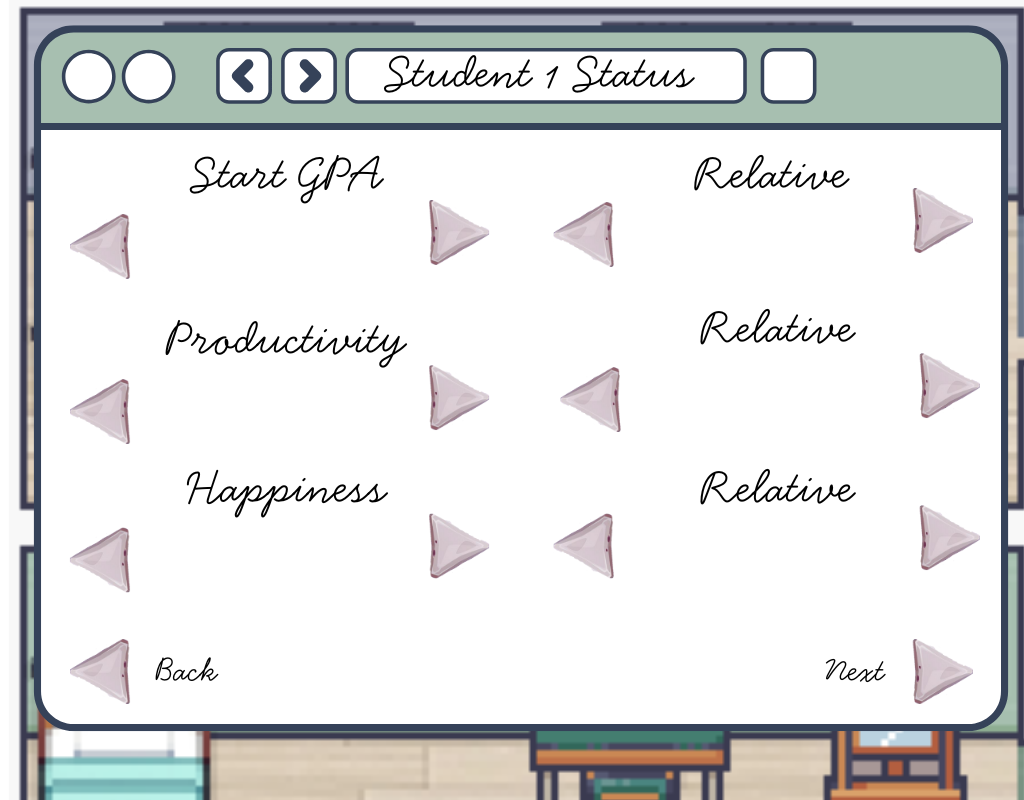
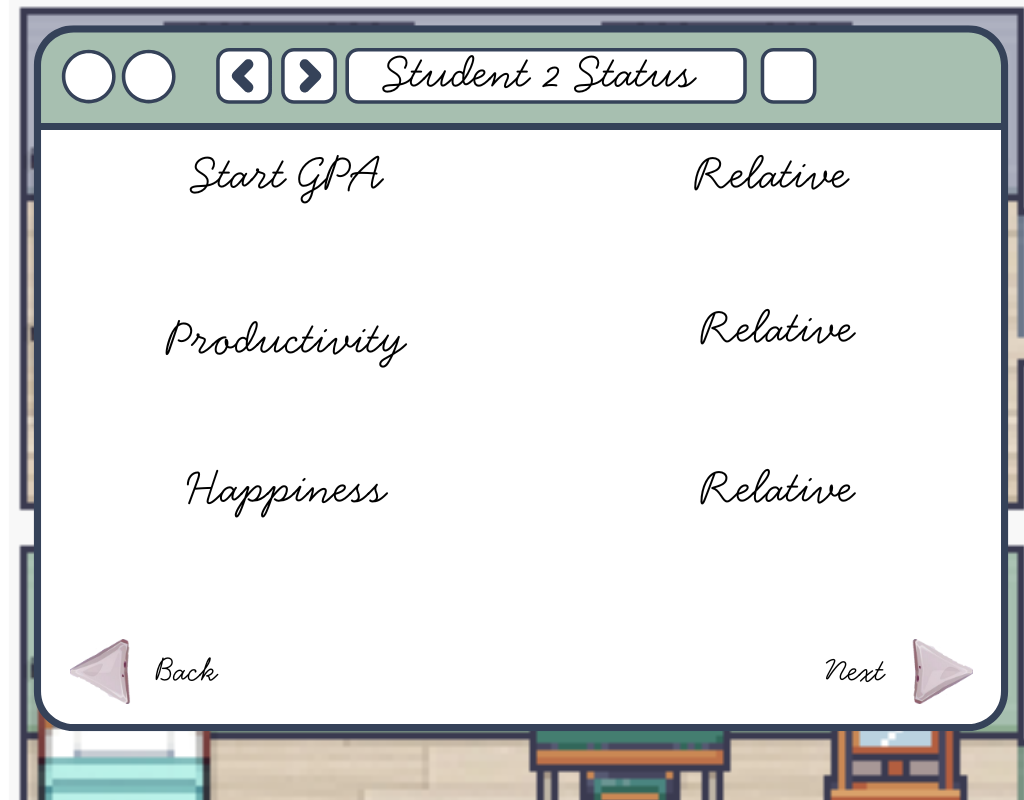
Finishedsettingsstuff

diff --git a/SettingsWorldS2Stats.java b/SettingsWorldS2Stats.java
@@ -1,16 +1,16 @@
 import greenfoot.*;  // (World, Actor, GreenfootImage, Greenfoot and MouseInfo)
 
 /**
- * Write a description of class SettingsWorldS1Stats here.
+ * Write a description of class SettingsWorldS2Stats here.
  * 
  * @author (your name) 
  * @version (a version number or a date)
  */
-public class SettingsWorldS1Stats extends World
+public class SettingsWorldS2Stats extends World
 {
 
     /**
-     * Constructor for objects of class SettingsWorldS1Stats.
+     * Constructor for objects of class SettingsWorldS2Stats.
      * 
      */
 
@@ -45,12 +45,12 @@ public class SettingsWorldS1Stats extends World
     private SettingsImages happiness;
      */
 
-    private SettingsWorldS1Stats.StatChooseNumber happiness, productivity, gpa; 
+    private SettingsWorldS2Stats.StatChooseNumber happiness, productivity, gpa; 
     private int happinessNumber, productivityNumber, gpaNumber;
 
-    private SettingsWorldS1Stats.StatChooseImage relative1, relative2, relative3; 
+    private SettingsWorldS2Stats.StatChooseImage relative1, relative2, relative3; 
     private int relative1Number, relative2Number, relative3Number; 
-    public SettingsWorldS1Stats()
+    public SettingsWorldS2Stats()
     {    
         // Create a new world with 600x400 cells with a cell size of 1x1 pixels.
         super(1024, 800, 1); 
@@ -62,39 +62,8 @@ public class SettingsWorldS1Stats extends World
         back = new Button (cursor, true); 
         addObject(back, 100, 670); 
 
-        background = new GreenfootImage ("SettingsPg2.png"); 
+        background = new GreenfootImage ("SettingsPg3.png"); 
         setBackground(background); 
-
-        /*
-        gpa = new SettingsImages(); 
-        gpaNumber = 5; 
-        gpa.numberDisplay(gpaNumber); 
-        addObject(gpa, 280, 250); 
-        gpaLeft = new Button(cursor, true); 
-        gpaRight = new Button(cursor, false);
-        addObject(gpaLeft, 100, 250); 
-        addObject(gpaRight, 450, 250); 
-
-        /*
-        productivity = new SettingsImages(); 
-        productivityNumber = 5; 
-        productivity.numberDisplay(productivityNumber); 
-        addObject(productivity, 280, 395); 
-        productivityLeft = new Button(cursor, true); 
-        productivityRight = new Button(cursor, false);
-        addObject(productivityLeft, 100, 395); 
-        addObject(productivityRight, 450, 395);
-
-        /*
-        happiness = new SettingsImages(); 
-        happinessNumber = 5; 
-        happiness.numberDisplay(happinessNumber); 
-        addObject(happiness, 280, 395); 
-        happinessLeft = new Button(cursor, true); 
-        happinessRight = new Button(cursor, false);
-        addObject(happinessLeft, 100, 395); 
-        addObject(happinessRight, 450, 395);
-         */
 
         maximumValueReachedGraphic = new SettingsImages();
         maximumValueReachedGraphic.maxMinDisplayText("Maximum Value Reached");
@@ -102,30 +71,28 @@ public class SettingsWorldS1Stats extends World
         minimumValueReachedGraphic = new SettingsImages();
         minimumValueReachedGraphic.maxMinDisplayText("Minimum Value Reached"); 
         happinessNumber = 80;
-        happiness = new SettingsWorldS1Stats.StatChooseNumber(280, 100, 450, 540, 280, 580, happinessNumber); 
+        happiness = new SettingsWorldS2Stats.StatChooseNumber(280, 100, 450, 540, 280, 580, happinessNumber); 
 
         productivityNumber = 90;
-        productivity = new SettingsWorldS1Stats.StatChooseNumber(280, 100, 450, 395, 280, 430, productivityNumber);
+        productivity = new SettingsWorldS2Stats.StatChooseNumber(280, 100, 450, 395, 280, 430, productivityNumber);
 
         gpaNumber = 90;
-        gpa = new SettingsWorldS1Stats.StatChooseNumber(280, 100, 450, 250, 280, 280, productivityNumber);
+        gpa = new SettingsWorldS2Stats.StatChooseNumber(280, 100, 450, 250, 280, 280, productivityNumber);
 
         relative1Number = 0 ; 
-        relative1 = new SettingsWorldS1Stats.StatChooseImage(775, 580, 950, 250, relative1Number); 
+        relative1 = new SettingsWorldS2Stats.StatChooseImage(775, 580, 950, 250, relative1Number); 
 
         relative2Number = 0;
-        relative2 = new SettingsWorldS1Stats.StatChooseImage(775, 580, 950, 395, relative2Number); 
+        relative2 = new SettingsWorldS2Stats.StatChooseImage(775, 580, 950, 395, relative2Number); 
 
         relative3Number = 0;
-        relative3 = new SettingsWorldS1Stats.StatChooseImage(775, 580, 950, 540, relative2Number); 
+        relative3 = new SettingsWorldS2Stats.StatChooseImage(775, 580, 950, 540, relative2Number); 
 
     }
 
     public void act()
     {
         backWorld(); 
-        nextWorld(); 
-        //productivityChoose(); 
         gpa.choose();
         productivity.choose(); 
         happiness.choose(); 
@@ -134,82 +101,11 @@ public class SettingsWorldS1Stats extends World
         relative3.choose(); 
     }
 
-    /*
-    public void happinessChoose()
-    {
-
-    }
-
-    /*
-    public void productivityChoose()
-    {
-    if (Greenfoot.mouseClicked(happinessRight))
-    {
-    if(happinessNumber == 100)
-    {
-    addObject(maximumValueReachedGraphic, 280, 580); 
-    }
-    else
-    {
-    happinessNumber+=5;
-    happiness.numberDisplay(happinessNumber); 
-    }
-
-    }
-    else if (Greenfoot.mouseClicked(happinessLeft))
-    {
-
-    if(happinessNumber ==0)
-    {
-    addObject(minimumValueReachedGraphic, 280, 580); 
-    }
-    else
-    {
-    happinessNumber-=5; 
-    happiness.numberDisplay(happinessNumber); 
-    }
-    }
-
-    }
-     */
-
-    /*
-    public void gpaChoose()
-    {
-    if (Greenfoot.mouseClicked(gpaRight))
-    {
-    if(gpaNumber == 100)
-    {
-    addObject(maximumValueReachedGraphic, 280, 280); 
-    }
-    else
-    {
-    gpaNumber+=5;
-    gpa.numberDisplay(gpaNumber); 
-    }
-
-    }
-    else if (Greenfoot.mouseClicked(gpaLeft))
-    {
-
-    if(gpaNumber ==0)
-    {
-    addObject(minimumValueReachedGraphic, 280, 280); 
-    }
-    else
-    {
-    gpaNumber-=5; 
-    gpa.numberDisplay(gpaNumber); 
-    }
-    }
-    }
-     */ 
-
     public void backWorld()
     {
         if (Greenfoot.mouseClicked(back))
         {
-            Greenfoot.setWorld(new SettingsWorldGeneral()); 
+            Greenfoot.setWorld(new SettingsWorldS1Stats()); 
         }
     }
 

diff --git a/SettingsWorldGeneral.java b/SettingsWorldGeneral.java
@@ -44,28 +44,28 @@ public class SettingsWorldGeneral extends World
         addObject(cursor, 0, 0);
         //button
         student1 = new SettingsImages(); 
-        student1.setImageFile("Cat.png"); 
-        addObject(student1, 505, 250); 
+        student1.setImageFile("bob_run18.png"); 
+        addObject(student1, 250, 290); 
         student1Left = new Button(cursor, true); 
         student1Right = new Button(cursor, false);
-        addObject(student1Left, 310, 250); 
-        addObject(student1Right, 700, 250); 
+        addObject(student1Left, 100, 290); 
+        addObject(student1Right, 400, 290); 
 
         student2 = new SettingsImages();
-        student2.setImageFile("mirror.png"); 
-        addObject(student2, 505, 450); 
+        student2.setImageFile("bob_run18.png"); 
+        addObject(student2, 250, 550); 
         student2Left = new Button(cursor, true); 
         student2Right = new Button(cursor, false);
-        addObject(student2Left, 310, 450); 
-        addObject(student2Right, 700, 450); 
+        addObject(student2Left, 100, 550); 
+        addObject(student2Right, 400, 550); 
 
         university = new SettingsImages();
-        university.setImageFile("germ1.png"); 
-        addObject(university, 505, 650); 
+        university.setImageFile("universityofcatmeme.png"); 
+        addObject(university, 725, 410); 
         universityLeft = new Button(cursor, true); 
         universityRight = new Button(cursor, false);
-        addObject(universityLeft, 310, 650); 
-        addObject(universityRight, 700, 650); 
+        addObject(universityLeft, 500, 550); 
+        addObject(universityRight, 942, 550); 
         
         next = new Button (cursor, false);
         addObject(next, 945, 670);
@@ -83,8 +83,6 @@ public class SettingsWorldGeneral extends World
         universityChoose(); 
         backWorld();
         nextWorld();
-        showText(String.valueOf(-9%3), 329, 100); 
-        showText(String.valueOf(student2ImageNumber), 200, 100); 
 
     }
     
@@ -115,7 +113,7 @@ public class SettingsWorldGeneral extends World
         }
         if(student1ImageNumber%3==0)
         {
-            student1.setImageFile("Cat.png"); 
+            student1.setImageFile("bob_run18.png"); 
         }
         else if (student1ImageNumber%3==1 || student1ImageNumber%3==-1)
         {
@@ -140,7 +138,7 @@ public class SettingsWorldGeneral extends World
         }
         if(student2ImageNumber%3==0)
         {
-            student2.setImageFile("Cat.png"); 
+            student2.setImageFile("bob_run18.png"); 
         }
         else if (student2ImageNumber%3==1 || student2ImageNumber%3==-1)
         {
@@ -165,19 +163,19 @@ public class SettingsWorldGeneral extends World
         }
         if(universityImageNumber%4==0)
         {
-            university.setImageFile("Cat.png"); 
+            university.setImageFile("universityofcatmeme.png"); 
         }
         else if (universityImageNumber%4==1 || universityImageNumber%4==-1)
         {
-            university.setImageFile("mirror.png"); 
+            university.setImageFile("universityofbigmac.png"); 
         }
         else if (universityImageNumber%4 == 2 || universityImageNumber%4==-2)
         {
-            university.setImageFile("germ1.png"); 
+            university.setImageFile("universityofducksong.png"); 
         }
         else if (universityImageNumber%4 == 3 || universityImageNumber%4==-3)
         {
-            university.setImageFile("germ1.png"); 
+            university.setImageFile("universityoflebron.png"); 
         }
 
     }

diff --git a/SettingsImages.java b/SettingsImages.java
@@ -9,21 +9,48 @@ import greenfoot.*;  // (World, Actor, GreenfootImage, Greenfoot and MouseInfo)
 public class SettingsImages extends Actor
 {
     private GreenfootImage image; 
+    private static final Color transparent = new Color(0,0,0,0);
+    private GreenfootImage text; 
+
+    private int maxmiumMinimumReachedGraphicCountdown; 
+
     /**
      * Act - do whatever the SettingsImages wants to do. This method is called whenever
      * the 'Act' or 'Run' button gets pressed in the environment.
      */
     public SettingsImages ()
     {       
+        maxmiumMinimumReachedGraphicCountdown = -1; 
     }
 
     public void act()
-    {
-
+    {   
+        if(maxmiumMinimumReachedGraphicCountdown > 0)
+        {
+            maxmiumMinimumReachedGraphicCountdown--; 
+        }
+        else if(maxmiumMinimumReachedGraphicCountdown == 0)
+        {
+            getWorld().removeObject(this); 
+        }
     }
+
     public void setImageFile(String imageFile)
     {
         image = new GreenfootImage(imageFile); 
         setImage(image); 
+    }
+
+    public void numberDisplay(int gpa)
+    {
+        text = new GreenfootImage(String.valueOf(gpa), 40, Color.BLACK, transparent);
+        setImage(text); 
+    }
+
+    public void maxMinDisplayText(String str)
+    {
+        text = new GreenfootImage(String.valueOf(str), 22, Color.BLACK, transparent);
+        setImage(text); 
+        maxmiumMinimumReachedGraphicCountdown = 120; 
     }
 }

diff --git a/MaximumValueReachedGraphic.java b/MaximumValueReachedGraphic.java
@@ -1,0 +1,35 @@
+import greenfoot.*;  // (World, Actor, GreenfootImage, Greenfoot and MouseInfo)
+
+/**
+ * Write a description of class MaxmiumValueReachedGraphic here.
+ * 
+ * @author (your name) 
+ * @version (a version number or a date)
+ */
+public class MaximumValueReachedGraphic extends Actor
+{
+    /**
+     * Act - do whatever the MaxmiumValueReachedGraphic wants to do. This method is called whenever
+     * the 'Act' or 'Run' button gets pressed in the environment.
+     */
+    private int maxmiumReachedGraphicCountdown; 
+
+    public MaximumValueReachedGraphic(int x, int y)
+    {
+        maxmiumReachedGraphicCountdown = 120; 
+    }
+
+    public void act()
+    {
+        if(maxmiumReachedGraphicCountdown > 0)
+        {
+            maxmiumReachedGraphicCountdown--; 
+        }
+        else
+        {
+            getWorld().removeObject(this); 
+            maxmiumReachedGraphicCountdown = 120; 
+        }
+    }
+
+}

diff --git a/Cloud.java b/Cloud.java
@@ -29,4 +29,7 @@ public class Cloud extends EffectItem
     {
         setLocation(student.getX(), student.getY() - yOffset);
     }
+    
+    
+
 }
